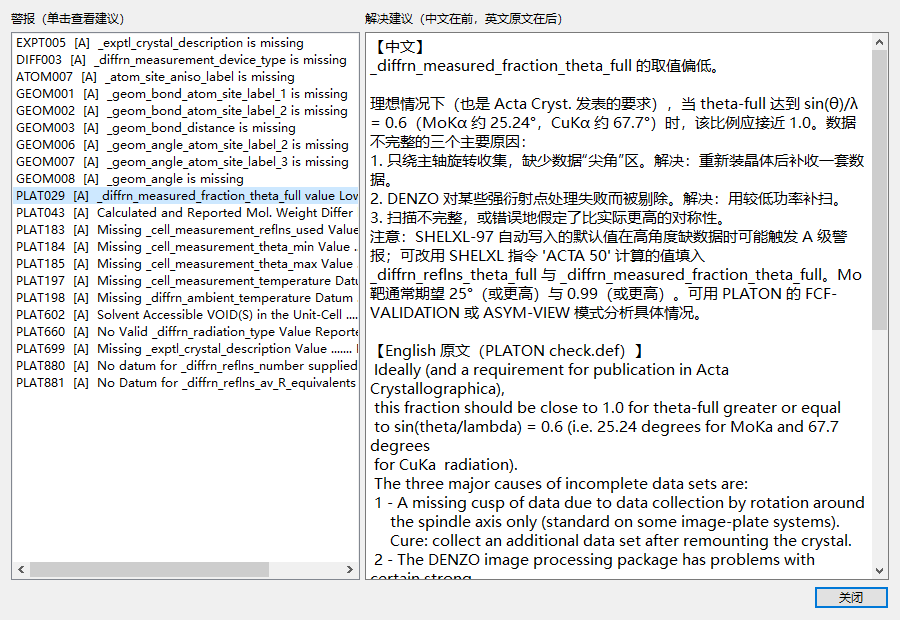
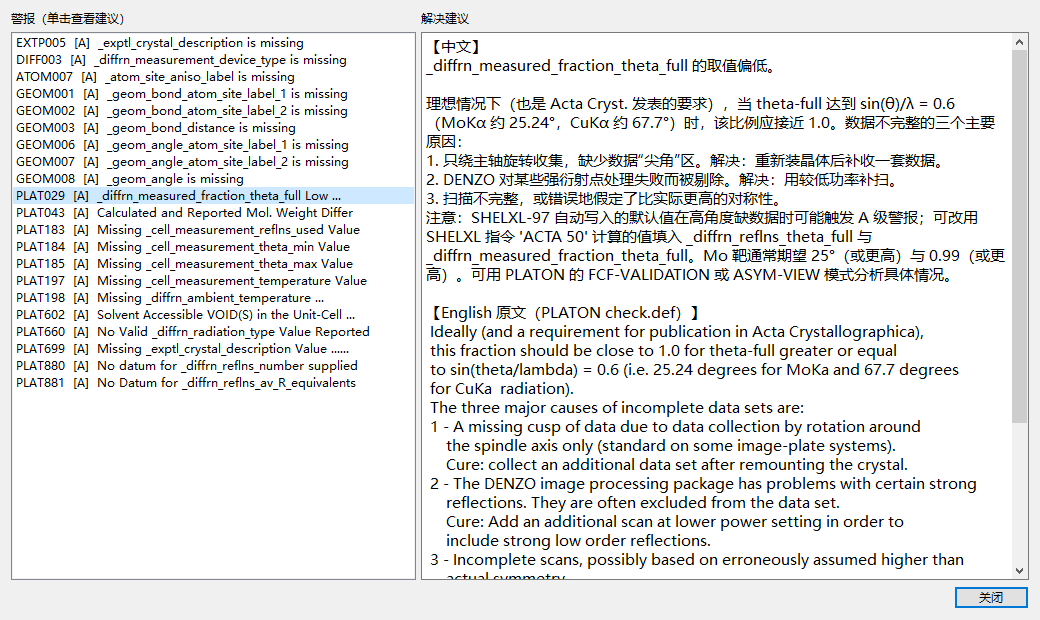
Simplify screenshot captions and refresh alert help image

Changed region(s): [[0.0, 0.0, 0.9956, 0.9806]]

diff --git a/README.en.md b/README.en.md
@@ -32,13 +32,13 @@ Changes in this edition:
 - Main-table filters for status, Chinese aliases, required items and CheckCIF mentions, plus a format-error summary
 - Online CheckCIF shows elapsed time, failure reasons and alert counts; requests can be cancelled and the server connection tested; missing required items are reported and selected before a run
 - Chinese explanations for all 545 PLAT alerts, with the official English text appended; IUCr prefilter checks get Chinese rules and fix advice
-- Chinese help texts for the CIF dictionary (all 1,429 items), including type and limits
+- Chinese help texts for the CIF dictionary
 - Upstream auto-update disabled; updates are published in this repository
 - Generated CIF files and report text remain in English
 
 ## Screenshots
 
-Main window (status filters, validation summary and status bar):
+Main window:
 
 ![Main window](screenshots/main-window.png)
 
@@ -46,7 +46,7 @@ CheckCIF alert summary (A/B/C/G levels):
 
 ![CheckCIF summary](screenshots/checkcif-summary.png)
 
-Chinese alert explanations and fix advice (right pane):
+Alert explanations:
 
 ![Alert help](screenshots/alert-help.png)
 

diff --git a/README.md b/README.md
@@ -32,13 +32,13 @@ FinalCIF 是一个 CIF 文件编辑器，用于把单晶 X 射线衍射实验的
 - 主表支持按状态、中文别名、必填项和 CheckCIF 提及项过滤，并汇总格式校验错误
 - 在线 CheckCIF 显示等待时长、失败原因与警报摘要，可取消请求并测试服务器连接；运行前自动检查必填项缺失并跳到对应行
 - CheckCIF 的 PLAT 警报全部 545 条附中文解释，并附官方英文原文；IUCr CIF 预检项（prefilter）附中文规则与修复建议
-- CIF 字典帮助全部中文（1,429 个键），含类型与取值范围
+- CIF 字典帮助全部中文
 - 关闭了上游自动更新，更新通过本仓库的 Releases 发布
 - 生成的 CIF 内容与报告正文保持英文
 
 ## 界面截图
 
-主界面（状态过滤、校验汇总与状态栏）：
+主界面：
 
 ![主界面](screenshots/main-window.png)
 
@@ -46,7 +46,7 @@ CheckCIF 警报汇总（A/B/C/G 分级）：
 
 ![CheckCIF 汇总](screenshots/checkcif-summary.png)
 
-警报中文解释与解决建议（右侧面板）：
+警报解释：
 
 ![警报解释](screenshots/alert-help.png)
 
